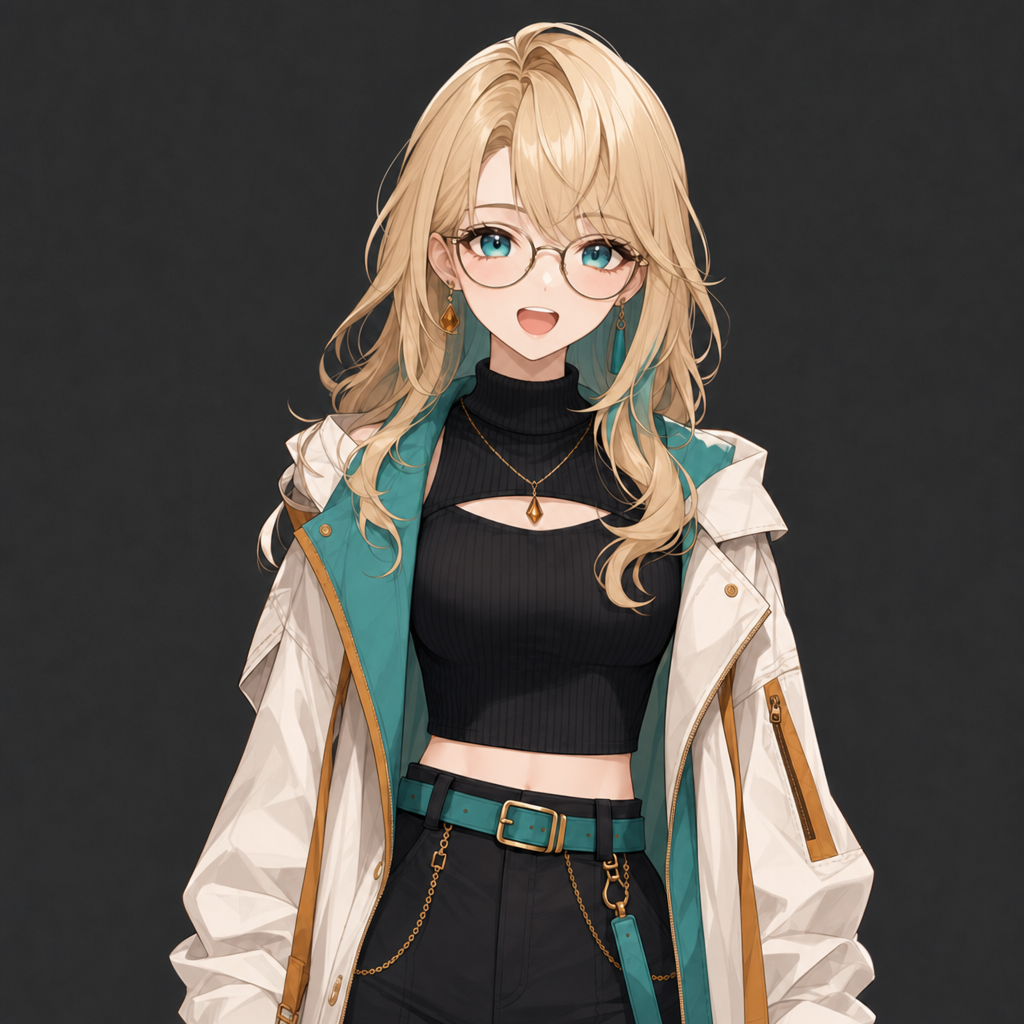
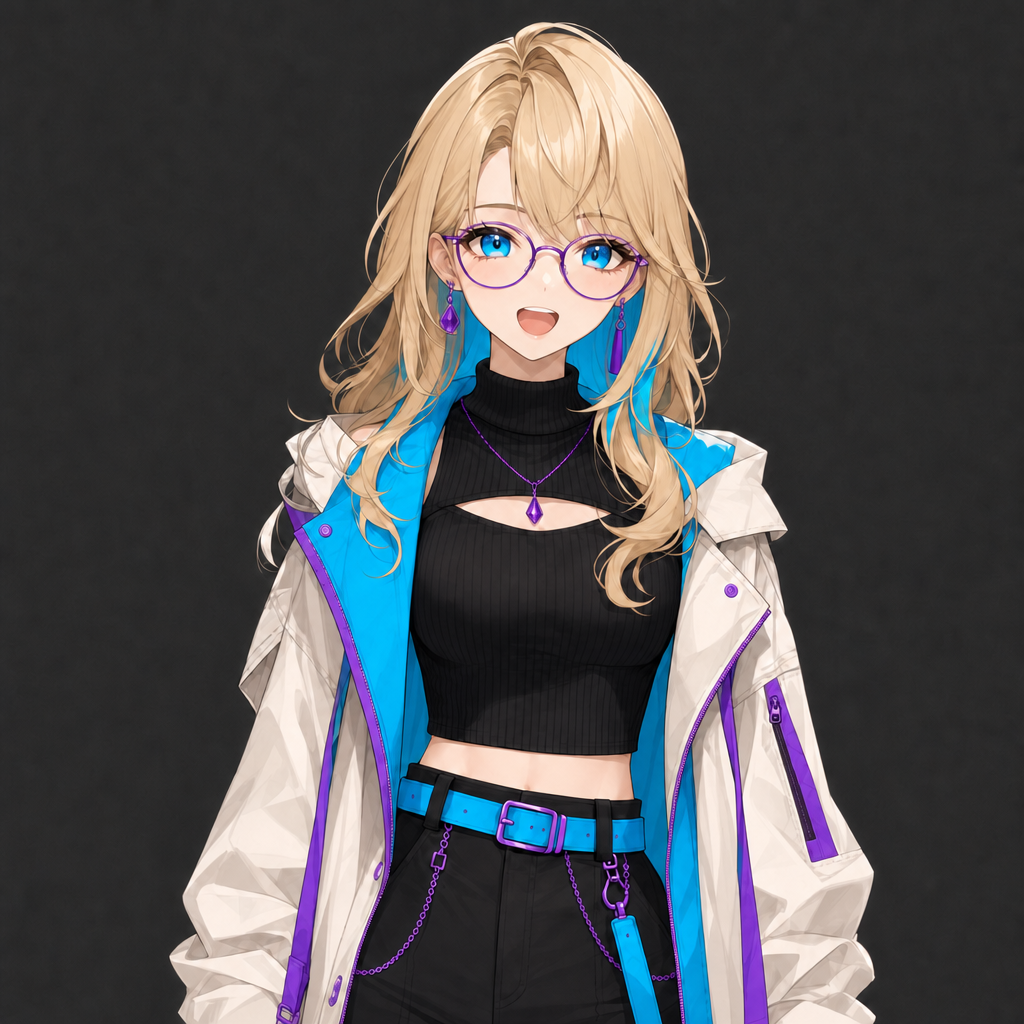
updated

diff --git a/index.html b/index.html
@@ -1259,11 +1259,15 @@
     .lumi-launcher-face {
       position: absolute; inset: 0;
       background: #0d1016;
-      border: 1px solid var(--line-strong);
+      border: 1px solid color-mix(in srgb, var(--accent) 70%, var(--accent-2));
       overflow: hidden;
-      transition: border-color 0.25s;
+      transition: border-color 0.25s, box-shadow 0.25s;
+      box-shadow: inset 0 0 0 1px color-mix(in srgb, #7c3aed 35%, transparent);
     }
-    .lumi-dock:hover .lumi-launcher-face { border-color: var(--accent); }
+    .lumi-dock:hover .lumi-launcher-face {
+      border-color: var(--accent);
+      box-shadow: inset 0 0 0 1px color-mix(in srgb, #a855f7 55%, transparent);
+    }
     .lumi-launcher-face img {
       width: 100%; height: 100%; object-fit: cover; object-position: center 10%;
       display: block; transform: scale(1.08);
@@ -1368,7 +1372,7 @@
     }
     .lumi-avatar {
       width: 52px; height: 52px; object-fit: cover; object-position: center 14%;
-      border: 1px solid var(--line-strong);
+      border: 1px solid color-mix(in srgb, var(--accent) 55%, #7c3aed);
       clip-path: polygon(10px 0, 100% 0, 100% calc(100% - 10px), calc(100% - 10px) 100%, 0 100%, 0 10px);
       transition: filter 0.3s; background: var(--bg-soft);
     }
